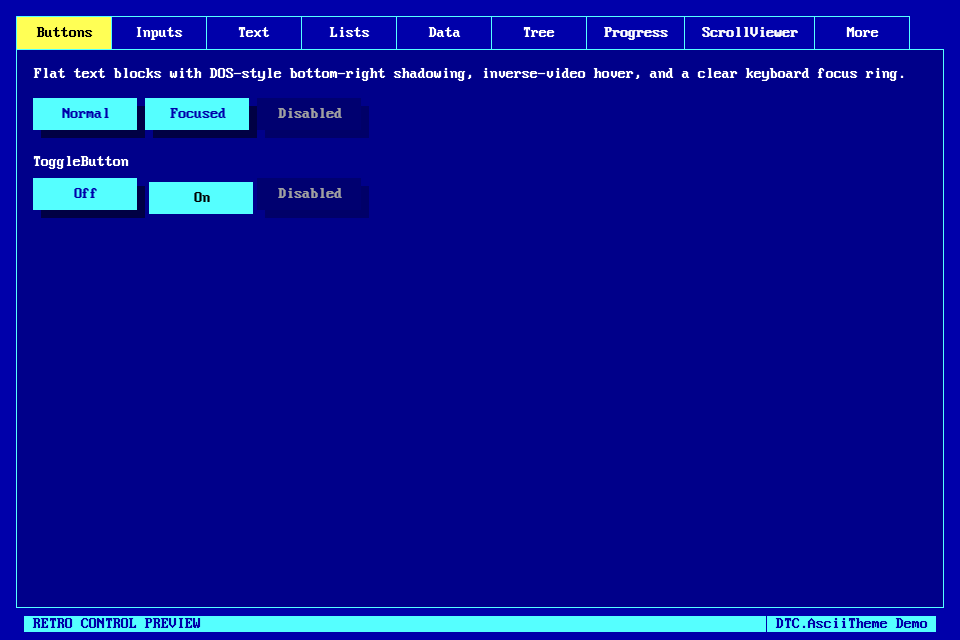
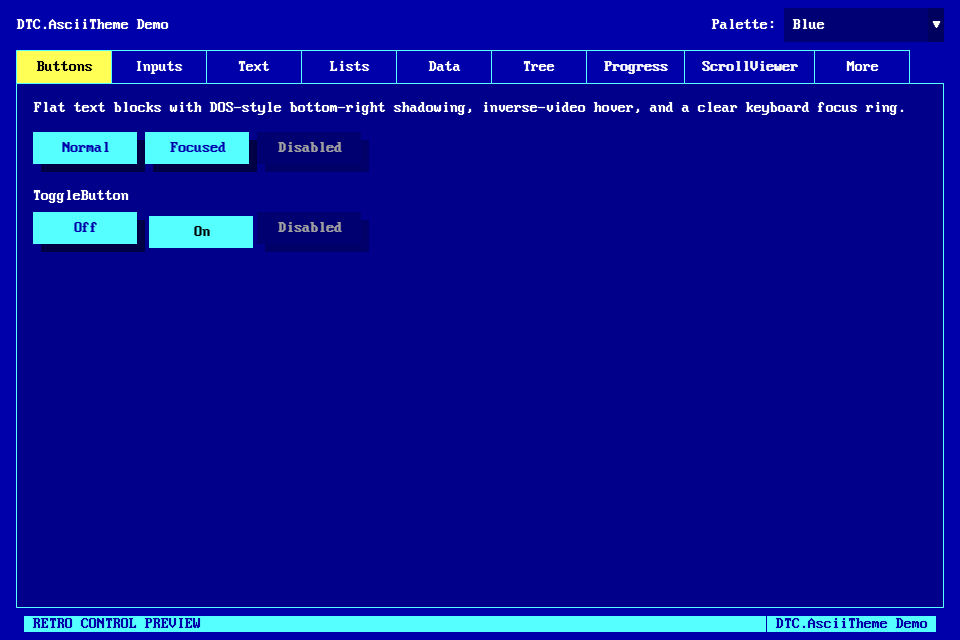
Feature: Add palette system with runtime switching.

Changed region(s): [[0.0, 0.0, 1.0, 0.4062]]

diff --git a/tests/DTC.AsciiTheme.Tests/DemoScreenshotTests.cs b/tests/DTC.AsciiTheme.Tests/DemoScreenshotTests.cs
@@ -50,11 +50,14 @@ public sealed class DemoScreenshotTests
 
                 var tabControl = window.FindControl<TabControl>("DemoTabControl");
                 Assert.That(tabControl, Is.Not.Null, "Expected the demo window to expose DemoTabControl.");
+                var paletteComboBox = window.FindControl<ComboBox>("PaletteComboBox");
+                Assert.That(paletteComboBox, Is.Not.Null, "Expected the demo window to expose PaletteComboBox.");
 
                 var tabItems = tabControl!.GetLogicalDescendants()
                                          .OfType<TabItem>()
                                          .ToList();
                 Assert.That(tabItems.Count, Is.GreaterThan(0), "Expected the demo tab control to contain tab items.");
+                var textTab = tabItems.Single(item => NormalizeHeader(item.Header) == "text");
 
                 foreach (var tabItem in tabItems)
                 {
@@ -70,6 +73,24 @@ public sealed class DemoScreenshotTests
                     await WaitForRenderAsync();
                     SaveScreenshot(window, tabItem);
                 }
+
+                var paletteFileNames = new[]
+                {
+                    "text-blue.png",
+                    "text-mono.png",
+                    "text-green.png",
+                    "text-plasma.png",
+                };
+
+                for (var paletteIndex = 0; paletteIndex < paletteFileNames.Length; paletteIndex++)
+                {
+                    paletteComboBox!.SelectedIndex = paletteIndex;
+                    tabControl.SelectedItem = textTab;
+                    textTab.Focus();
+                    await WaitForRenderAsync();
+                    await WaitForRenderAsync();
+                    SaveScreenshot(window, paletteFileNames[paletteIndex]);
+                }
             }
             finally
             {
@@ -82,10 +103,15 @@ public sealed class DemoScreenshotTests
 
     private static void SaveScreenshot(Window window, TabItem tabItem)
     {
-        using var frame = window.CaptureRenderedFrame();
-        Assert.That(frame, Is.Not.Null, $"Expected a rendered frame for tab '{tabItem.Header}'.");
-
         var fileName = $"{NormalizeHeader(tabItem.Header)}.png";
+        SaveScreenshot(window, fileName);
+    }
+
+    private static void SaveScreenshot(Window window, string fileName)
+    {
+        using var frame = window.CaptureRenderedFrame();
+        Assert.That(frame, Is.Not.Null, $"Expected a rendered frame for screenshot '{fileName}'.");
+
         var file = new FileInfo(Path.Combine(ImageDirectory.FullName, fileName));
         using (var stream = file.Open(FileMode.Create, FileAccess.Write, FileShare.None))
         {

diff --git a/src/DTC.AsciiTheme/AsciiPaletteManager.cs b/src/DTC.AsciiTheme/AsciiPaletteManager.cs
@@ -1,0 +1,70 @@
+// Code authored by Dean Edis (DeanTheCoder).
+// Anyone is free to copy, modify, use, compile, or distribute this software,
+// either in source code form or as a compiled binary, for any non-commercial
+// purpose.
+//
+// If you modify the code, please retain this copyright header,
+// and consider contributing back to the repository or letting us know
+// about your modifications. Your contributions are valued!
+//
+// THE SOFTWARE IS PROVIDED AS IS, WITHOUT WARRANTY OF ANY KIND.
+
+using Avalonia;
+using Avalonia.Markup.Xaml.Styling;
+using Avalonia.Styling;
+
+namespace DTC.AsciiTheme;
+
+public static class AsciiPaletteManager
+{
+    private static readonly Uri PaletteBaseUri = new("avares://DTC.AsciiTheme/");
+    private const string PaletteUriPrefix = "avares://DTC.AsciiTheme/Palettes/";
+
+    public static void Apply(Application application, AsciiPalette palette)
+    {
+        ArgumentNullException.ThrowIfNull(application);
+
+        Apply(application.Styles, palette);
+    }
+
+    public static void Apply(Styles styles, AsciiPalette palette)
+    {
+        ArgumentNullException.ThrowIfNull(styles);
+
+        RemoveExistingPaletteIncludes(styles);
+        styles.Add(new StyleInclude(PaletteBaseUri)
+        {
+            Source = GetUri(palette),
+        });
+    }
+
+    public static Uri GetUri(AsciiPalette palette)
+    {
+        var paletteFileName = palette switch
+        {
+            AsciiPalette.Blue => "Blue.axaml",
+            AsciiPalette.Mono => "Mono.axaml",
+            AsciiPalette.Green => "Green.axaml",
+            AsciiPalette.Plasma => "Plasma.axaml",
+            _ => throw new ArgumentOutOfRangeException(nameof(palette), palette, null),
+        };
+
+        return new Uri($"{PaletteUriPrefix}{paletteFileName}");
+    }
+
+    private static void RemoveExistingPaletteIncludes(Styles styles)
+    {
+        for (var index = styles.Count - 1; index >= 0; index--)
+        {
+            if (styles[index] is not StyleInclude { Source: { } source })
+            {
+                continue;
+            }
+
+            if (source.ToString().StartsWith(PaletteUriPrefix, StringComparison.OrdinalIgnoreCase))
+            {
+                styles.RemoveAt(index);
+            }
+        }
+    }
+}

diff --git a/samples/DTC.AsciiTheme.Demo/MainWindow.axaml.cs b/samples/DTC.AsciiTheme.Demo/MainWindow.axaml.cs
@@ -12,6 +12,7 @@
 using Avalonia.Controls;
 using Avalonia.Input;
 using Avalonia.Threading;
+using Avalonia;
 using DTC.AsciiTheme;
 
 namespace DTC.AsciiTheme.Demo;
@@ -96,6 +97,36 @@ public partial class MainWindow : Window
     private void UpdateMessageBoxResult(AsciiMessageBoxResult result)
     {
         MessageBoxResultTextBlock.Text = $"Last result: {result}";
+    }
+
+    private void HandlePaletteSelectionChanged(object sender, SelectionChangedEventArgs e)
+    {
+        if (Application.Current is null)
+        {
+            return;
+        }
+
+        if (sender is not ComboBox comboBox)
+        {
+            return;
+        }
+
+        if (comboBox.SelectedItem is not ComboBoxItem comboBoxItem)
+        {
+            return;
+        }
+
+        if (comboBoxItem.Tag is not string paletteName)
+        {
+            return;
+        }
+
+        if (!Enum.TryParse<AsciiPalette>(paletteName, ignoreCase: true, out var palette))
+        {
+            return;
+        }
+
+        AsciiPaletteManager.Apply(Application.Current, palette);
     }
 
     private static IReadOnlyList<DemoFileRow> CreateFileRows()

diff --git a/src/DTC.AsciiTheme/AsciiPalette.cs b/src/DTC.AsciiTheme/AsciiPalette.cs
@@ -1,0 +1,20 @@
+// Code authored by Dean Edis (DeanTheCoder).
+// Anyone is free to copy, modify, use, compile, or distribute this software,
+// either in source code form or as a compiled binary, for any non-commercial
+// purpose.
+//
+// If you modify the code, please retain this copyright header,
+// and consider contributing back to the repository or letting us know
+// about your modifications. Your contributions are valued!
+//
+// THE SOFTWARE IS PROVIDED AS IS, WITHOUT WARRANTY OF ANY KIND.
+
+namespace DTC.AsciiTheme;
+
+public enum AsciiPalette
+{
+    Blue,
+    Mono,
+    Green,
+    Plasma,
+}

diff --git a/README.md b/README.md
@@ -103,6 +103,45 @@ Reference `DTC.AsciiTheme` from your Avalonia app, then load the theme in `App.a
 
 That matches the demo app and gives you the normal Avalonia Fluent baseline plus the retro overrides from this theme package.
 
+## Optional palette overlays
+The base theme ships with a blue DOS-style palette by default, and also includes optional palette overlays you can load after `AsciiTheme`:
+
+- `avares://DTC.AsciiTheme/Palettes/Blue.axaml`
+- `avares://DTC.AsciiTheme/Palettes/Mono.axaml`
+- `avares://DTC.AsciiTheme/Palettes/Green.axaml`
+- `avares://DTC.AsciiTheme/Palettes/Plasma.axaml`
+
+Example:
+
+```xml
+<Application.Styles>
+    <fluent:FluentTheme />
+    <ascii:AsciiTheme />
+    <StyleInclude Source="avares://DTC.AsciiTheme/Palettes/Green.axaml" />
+</Application.Styles>
+```
+
+If you want to switch palettes at runtime from code, use `AsciiPaletteManager.Apply(...)`.
+
+## Palette gallery
+The screenshots below all use the same `Text` tab content so the palette differences are easy to compare:
+
+### Blue
+
+![Blue palette screenshot](img/text-blue.png)
+
+### Mono
+
+![Mono palette screenshot](img/text-mono.png)
+
+### Green
+
+![Green palette screenshot](img/text-green.png)
+
+### Plasma
+
+![Plasma palette screenshot](img/text-plasma.png)
+
 ## Project layout
 - `src/DTC.AsciiTheme/` contains the reusable theme library.
 - `samples/DTC.AsciiTheme.Demo/` contains the showcase app used for interactive visual checks.
